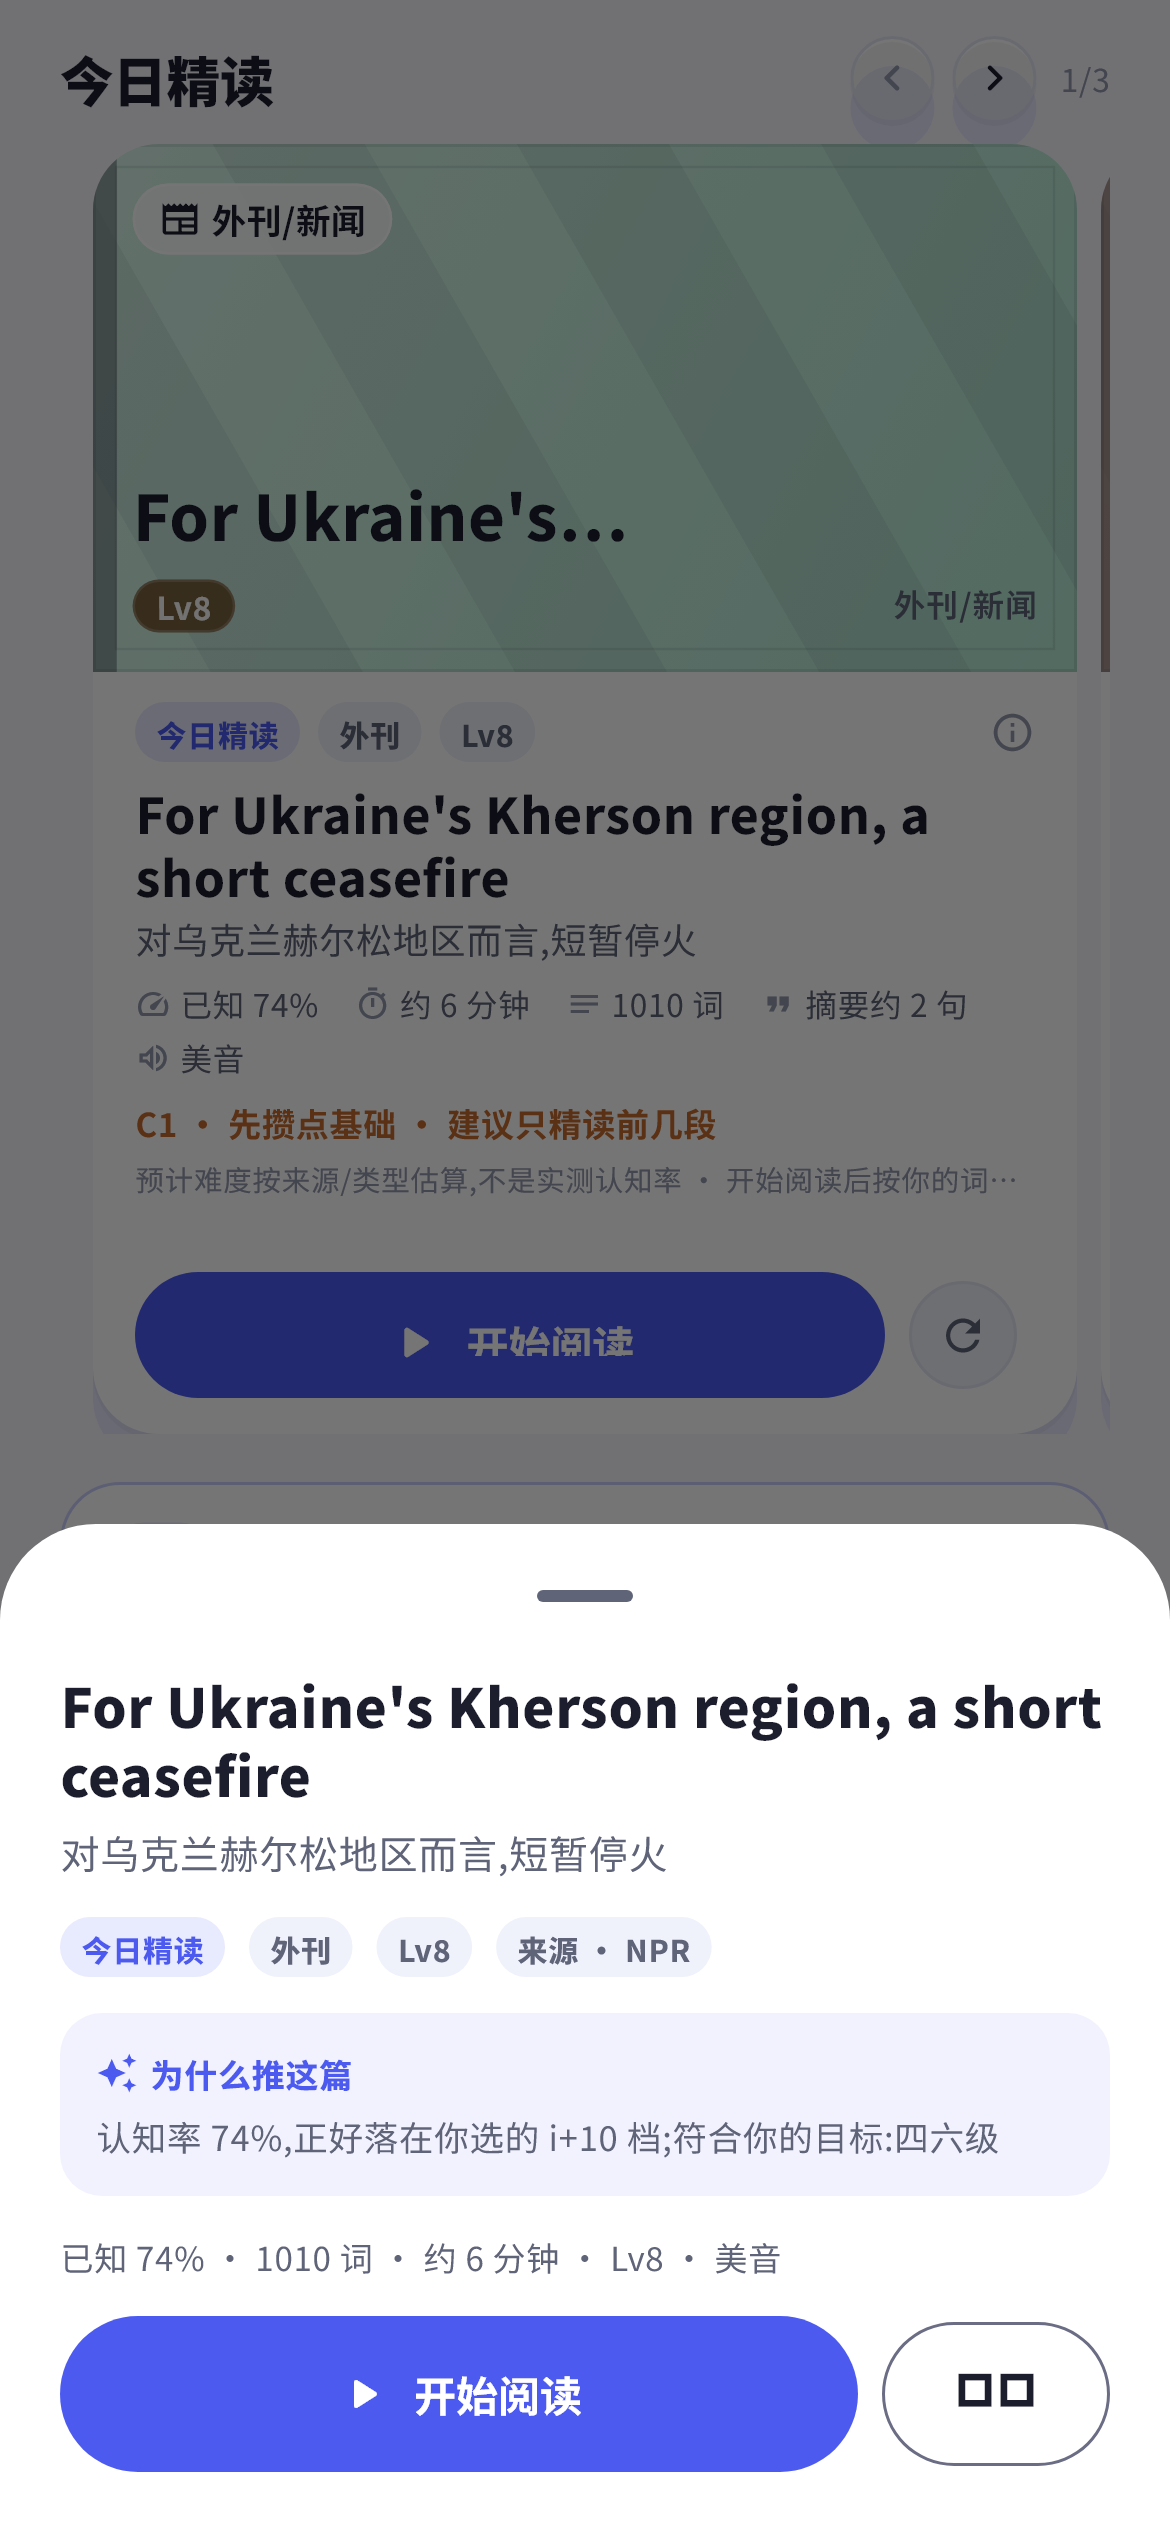
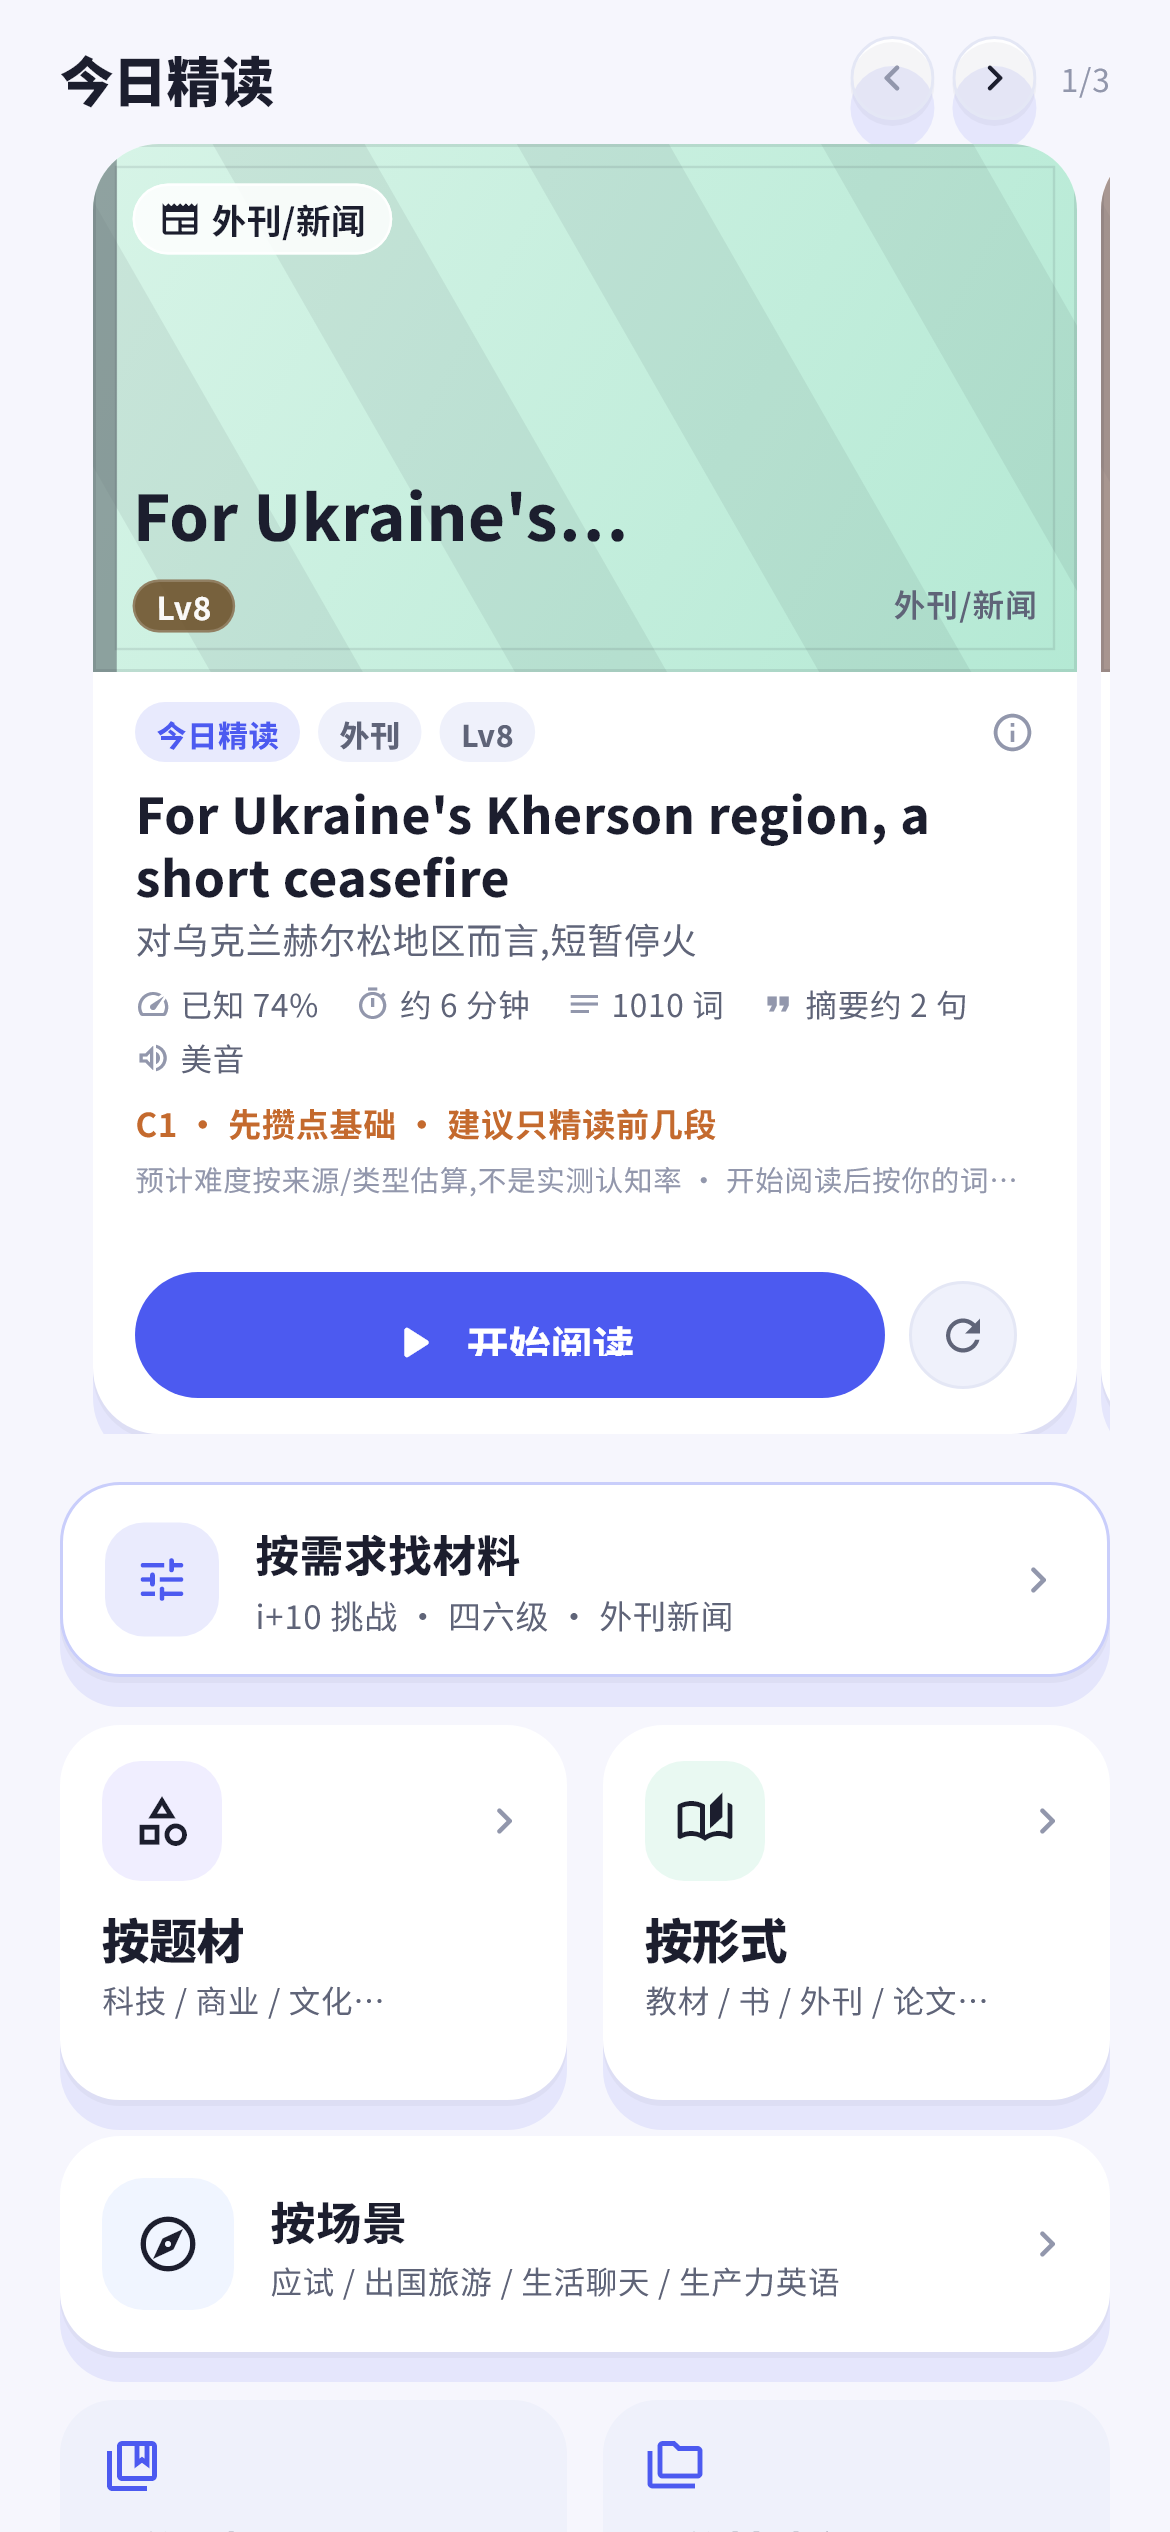
test: 首页渲染先截干净图再长按预览;归档 v2.25.1 头部渲染

diff --git a/test/material_hub_test.dart b/test/material_hub_test.dart
@@ -234,13 +234,9 @@ void main() {
     expect(find.text('按形式'), findsOneWidget);
     expect(find.text('按场景'), findsOneWidget);
     expect(find.text('我的材料库'), findsOneWidget);
-    // 长按今日精读卡 → 预览完整信息/推荐理由(用户 11/04 要求)
-    await tester.longPress(
-      find.text("For Ukraine's Kherson region, a short ceasefire"),
-    );
-    await tester.pumpAndSettle();
-    expect(find.text('为什么推这篇'), findsOneWidget);
+    expect(find.text('我的书架'), findsOneWidget);
 
+    // 先截"干净首页"(长按会把预览弹层也截进去)
     final boundary =
         key.currentContext!.findRenderObject()! as RenderRepaintBoundary;
     await tester.runAsync(() async {
@@ -251,6 +247,13 @@ void main() {
           .writeAsBytesSync(bytes!.buffer.asUint8List());
       image.dispose();
     });
+
+    // 长按今日精读卡 → 预览完整信息/推荐理由(用户 11/04 要求)
+    await tester.longPress(
+      find.text("For Ukraine's Kherson region, a short ceasefire"),
+    );
+    await tester.pumpAndSettle();
+    expect(find.text('为什么推这篇'), findsOneWidget);
   });
 
   group('材料库分组(浏览/导入分开管理)', () {
